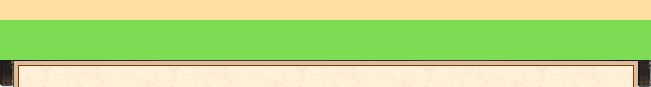
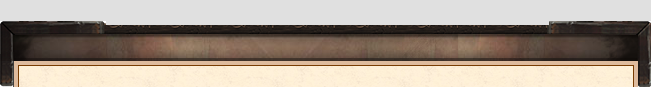
fix different things

diff --git a/src/main/resources/templates/fragments/menu.html b/src/main/resources/templates/fragments/menu.html
@@ -68,8 +68,8 @@
 
         <ul th:if="${top5level != null}" th:each="top_players : ${top5level}">
             <li>
-                <i th:text="${top_players.username}"></i>
-                <span class="pull-right" th:text="${top_players.level} + ' ' + lv"></span>
+                <i th:text="${top_players.username}">-</i>
+                <span class="pull-right" th:text="${top_players.level} + ' ' + lv">-</span>
             </li>
         </ul>
 
@@ -78,15 +78,22 @@
 
     <div class="menu-top">
         <div class="menu-exten"></div>
-        <div class="menu-text">Best Last Xp</div>
+        <div class="menu-text">Best 5 Last Xp</div>
     </div>
     <div class="menu-cnt">
 
         <ul th:if="${toplastxp != null}" th:each="topxp : ${toplastxp}">
             <li>
                 <i th:text="${topxp.username}">-</i>
-                <span class="pull-right" th:text="'+ ' + ${topxp.experience}">0</span>
+                <span class="pull-right" th:text="'+ ' + ${topxp.experience}">-</span>
             </li>
+        </ul>
+        <ul th:if="${toplastxp.size() == 0}">
+            <li th:text="'-'">-</li>
+            <li th:text="'-'"></li>
+            <li th:text="'-'"></li>
+            <li th:text="'-'"></li>
+            <li th:text="'-'"></li>
         </ul>
 
 

diff --git a/target/classes/templates/fragments/menu.html b/target/classes/templates/fragments/menu.html
@@ -68,8 +68,8 @@
 
         <ul th:if="${top5level != null}" th:each="top_players : ${top5level}">
             <li>
-                <i th:text="${top_players.username}"></i>
-                <span class="pull-right" th:text="${top_players.level} + ' ' + lv"></span>
+                <i th:text="${top_players.username}">-</i>
+                <span class="pull-right" th:text="${top_players.level} + ' ' + lv">-</span>
             </li>
         </ul>
 
@@ -78,15 +78,22 @@
 
     <div class="menu-top">
         <div class="menu-exten"></div>
-        <div class="menu-text">Best Last Xp</div>
+        <div class="menu-text">Best 5 Last Xp</div>
     </div>
     <div class="menu-cnt">
 
         <ul th:if="${toplastxp != null}" th:each="topxp : ${toplastxp}">
             <li>
                 <i th:text="${topxp.username}">-</i>
-                <span class="pull-right" th:text="'+ ' + ${topxp.experience}">0</span>
+                <span class="pull-right" th:text="'+ ' + ${topxp.experience}">-</span>
             </li>
+        </ul>
+        <ul th:if="${toplastxp.size() == 0}">
+            <li th:text="'-'">-</li>
+            <li th:text="'-'"></li>
+            <li th:text="'-'"></li>
+            <li th:text="'-'"></li>
+            <li th:text="'-'"></li>
         </ul>
 
 

diff --git a/src/main/resources/static/styles.css b/src/main/resources/static/styles.css
@@ -53,7 +53,7 @@
     display: block;
     width: 651px;
     height: 87px;
-    background: url("images/content-top.png") no-repeat scroll center top transparent;
+    background: url("images/content-top-ln.png") no-repeat scroll center top transparent;
 }
 
 .content-bg {
@@ -100,7 +100,7 @@ ul {
 }
 
 .menu-top {
-    background: url("images/small-top.png") no-repeat scroll 0 0 transparent;
+    background: url("images/small-top-ln.png") no-repeat scroll 0 0 transparent;
     color: #d4c0a1;
     float: left;
     height: 127px;
@@ -133,7 +133,7 @@ ul {
     color: #ccc;
     float: left;
     height: 0px;
-    padding-top: 18px;
+    padding-top: 0px;
     width: 264px;
     position: absolute;
 }

diff --git a/target/classes/static/styles.css b/target/classes/static/styles.css
@@ -53,7 +53,7 @@
     display: block;
     width: 651px;
     height: 87px;
-    background: url("images/content-top.png") no-repeat scroll center top transparent;
+    background: url("images/content-top-ln.png") no-repeat scroll center top transparent;
 }
 
 .content-bg {
@@ -100,7 +100,7 @@ ul {
 }
 
 .menu-top {
-    background: url("images/small-top.png") no-repeat scroll 0 0 transparent;
+    background: url("images/small-top-ln.png") no-repeat scroll 0 0 transparent;
     color: #d4c0a1;
     float: left;
     height: 127px;
@@ -133,7 +133,7 @@ ul {
     color: #ccc;
     float: left;
     height: 0px;
-    padding-top: 18px;
+    padding-top: 0px;
     width: 264px;
     position: absolute;
 }

diff --git a/src/main/resources/templates/fragments/send-emailcheck-fragment.html b/src/main/resources/templates/fragments/send-emailcheck-fragment.html
@@ -8,10 +8,11 @@
         <div class="content-txt">
 
             Podaj maila na którego zostanie wysłany link do ustawienia nowego hasła
-
+            <p><font color="red" th:text="${mailNotExist}"></font></p>
+            <p><font color="green" th:text="${mailSended}"></font></p>
             <br>
 
-            <form onsubmit="" method="post" th:action="@{/send-mail}" th:object="${mail}">
+            <form onsubmit="" method="post" th:action="@{/send-mail}" th:if="${mail != null}" th:object="${mail}">
                 <table width="100%" cellspacing="1" cellpadding="4" border="0">
                     <tbody>
                     <tr>

diff --git a/target/classes/templates/fragments/send-emailcheck-fragment.html b/target/classes/templates/fragments/send-emailcheck-fragment.html
@@ -8,10 +8,11 @@
         <div class="content-txt">
 
             Podaj maila na którego zostanie wysłany link do ustawienia nowego hasła
-
+            <p><font color="red" th:text="${mailNotExist}"></font></p>
+            <p><font color="green" th:text="${mailSended}"></font></p>
             <br>
 
-            <form onsubmit="" method="post" th:action="@{/send-mail}" th:object="${mail}">
+            <form onsubmit="" method="post" th:action="@{/send-mail}" th:if="${mail != null}" th:object="${mail}">
                 <table width="100%" cellspacing="1" cellpadding="4" border="0">
                     <tbody>
                     <tr>

diff --git a/src/main/resources/templates/fragments/register-form.html b/src/main/resources/templates/fragments/register-form.html
@@ -6,10 +6,11 @@
 
     <div class="content-bg">
         <div class="content-txt">
-            <br>
+
             <font color="red" th:text="${username}"></font>
             <font color="red" th:text="${email}"></font>
             <font color="red" th:text="${short}"></font>
+            <font color="red" th:text="${usernameIsTooShort}"></font> <br>
 
             <form th:action="@{/register}" onsubmit="" method="post" th:object="${registerForm}">
                 <table width="100%" cellspacing="1" cellpadding="4" border="0">

diff --git a/target/classes/templates/fragments/register-form.html b/target/classes/templates/fragments/register-form.html
@@ -6,10 +6,11 @@
 
     <div class="content-bg">
         <div class="content-txt">
-            <br>
+
             <font color="red" th:text="${username}"></font>
             <font color="red" th:text="${email}"></font>
             <font color="red" th:text="${short}"></font>
+            <font color="red" th:text="${usernameIsTooShort}"></font> <br>
 
             <form th:action="@{/register}" onsubmit="" method="post" th:object="${registerForm}">
                 <table width="100%" cellspacing="1" cellpadding="4" border="0">

diff --git a/src/main/resources/templates/fragments/index-center-page.html b/src/main/resources/templates/fragments/index-center-page.html
@@ -13,7 +13,8 @@
                 <p>Wygrana za trojke - 24 zl</p>
                 <p th:text="'Wygrana za czworke - ' + ${fourth} + ' pln'"></p>
                 <p th:text="'Wygrana za piatke - ' + ${fifth}  + ' pln'"></p>
-                <p th:text="'Wygrana za szostke - ' + ${sixth}  + ' pln'"></p>
+                <p th:if="${sixth > 0}" th:text="'Wygrana za szostke - ' + ${sixth}  + ' pln'"></p>
+                <p th:if="${sixth == 0}" th:text="'Nikt nie trafil szostki'"></p>
                 <br>
                 <br>
 

diff --git a/target/classes/templates/fragments/index-center-page.html b/target/classes/templates/fragments/index-center-page.html
@@ -13,7 +13,8 @@
                 <p>Wygrana za trojke - 24 zl</p>
                 <p th:text="'Wygrana za czworke - ' + ${fourth} + ' pln'"></p>
                 <p th:text="'Wygrana za piatke - ' + ${fifth}  + ' pln'"></p>
-                <p th:text="'Wygrana za szostke - ' + ${sixth}  + ' pln'"></p>
+                <p th:if="${sixth > 0}" th:text="'Wygrana za szostke - ' + ${sixth}  + ' pln'"></p>
+                <p th:if="${sixth == 0}" th:text="'Nikt nie trafil szostki'"></p>
                 <br>
                 <br>
 

diff --git a/src/main/resources/templates/fragments/table-statistics.html b/src/main/resources/templates/fragments/table-statistics.html
@@ -34,7 +34,7 @@
                         <option value="five">Ilosc piatek</option>
                         <option value="six">Ilosc szostek</option>
                     </select>
-                    <input type="image" name="submit" src="images/button-submit.png" width="70" height="20" border="0">
+                    <input type="image" name="submit" src="images/button-sort.png" width="100" height="25" border="0">
                 </center>
             </form>
 

diff --git a/target/classes/templates/fragments/table-statistics.html b/target/classes/templates/fragments/table-statistics.html
@@ -34,7 +34,7 @@
                         <option value="five">Ilosc piatek</option>
                         <option value="six">Ilosc szostek</option>
                     </select>
-                    <input type="image" name="submit" src="images/button-submit.png" width="70" height="20" border="0">
+                    <input type="image" name="submit" src="images/button-sort.png" width="100" height="25" border="0">
                 </center>
             </form>
 
